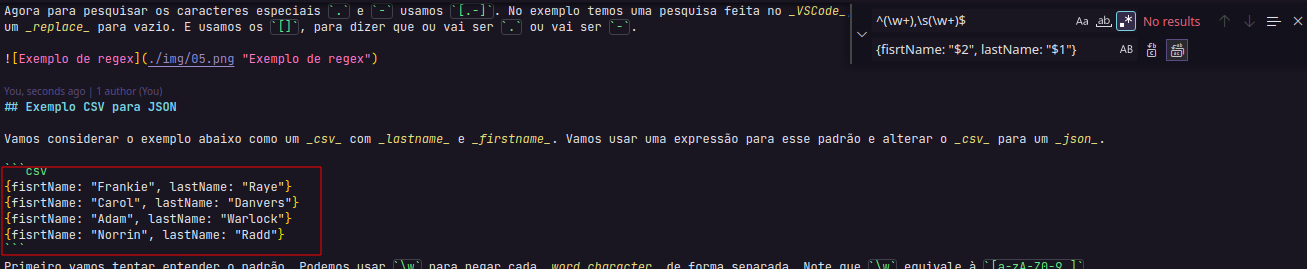
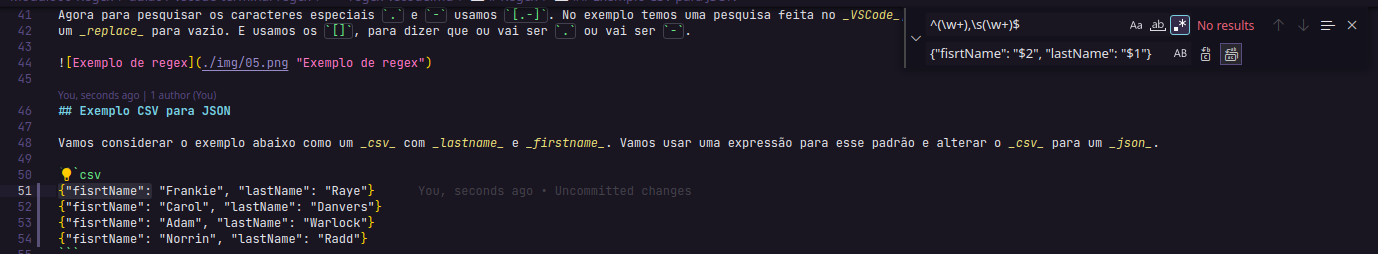
m06a01 vscode terminal regex

diff --git a/Modulo06-Regex/aula01-vscode-terminal-regex/regex-vscode.md b/Modulo06-Regex/aula01-vscode-terminal-regex/regex-vscode.md
@@ -48,10 +48,10 @@ um _replace_ para vazio. E usamos os `[]`, para dizer que ou vai ser `.` ou vai 
 Vamos considerar o exemplo abaixo como um _csv_ com _lastname_ e _firstname_. Vamos usar uma expressão para esse padrão e alterar o _csv_ para um _json_.
 
 ```csv
-Raye, Frankie
-Danvers, Carol
-Warlock, Adam
-Radd, Norrin
+{"fisrtName": "Frankie", "lastName": "Raye"}
+{"fisrtName": "Carol", "lastName": "Danvers"}
+{"fisrtName": "Adam", "lastName": "Warlock"}
+{"fisrtName": "Norrin", "lastName": "Radd"}
 ```
 Primeiro vamos tentar entender o padrão. Podemos usar `\w` para pegar cada _word character_ de forma separada. Note que `\w` equivale à `[a-zA-Z0-9_]`.
 
@@ -86,8 +86,8 @@ E ao executar o _replace_, temos:
 ![Exemplo de regex](./img/12.png "Exemplo de regex")
 
 ```json
-{fisrtName: "Frankie", lastName: "Raye"}
-{fisrtName: "Carol", lastName: "Danvers"}
-{fisrtName: "Adam", lastName: "Warlock"}
-{fisrtName: "Norrin", lastName: "Radd"}
+{"fisrtName": "Frankie", "lastName": "Raye"}
+{"fisrtName": "Carol", "lastName": "Danvers"}
+{"fisrtName": "Adam", "lastName": "Warlock"}
+{"fisrtName": "Norrin", "lastName": "Radd"}
 ```
